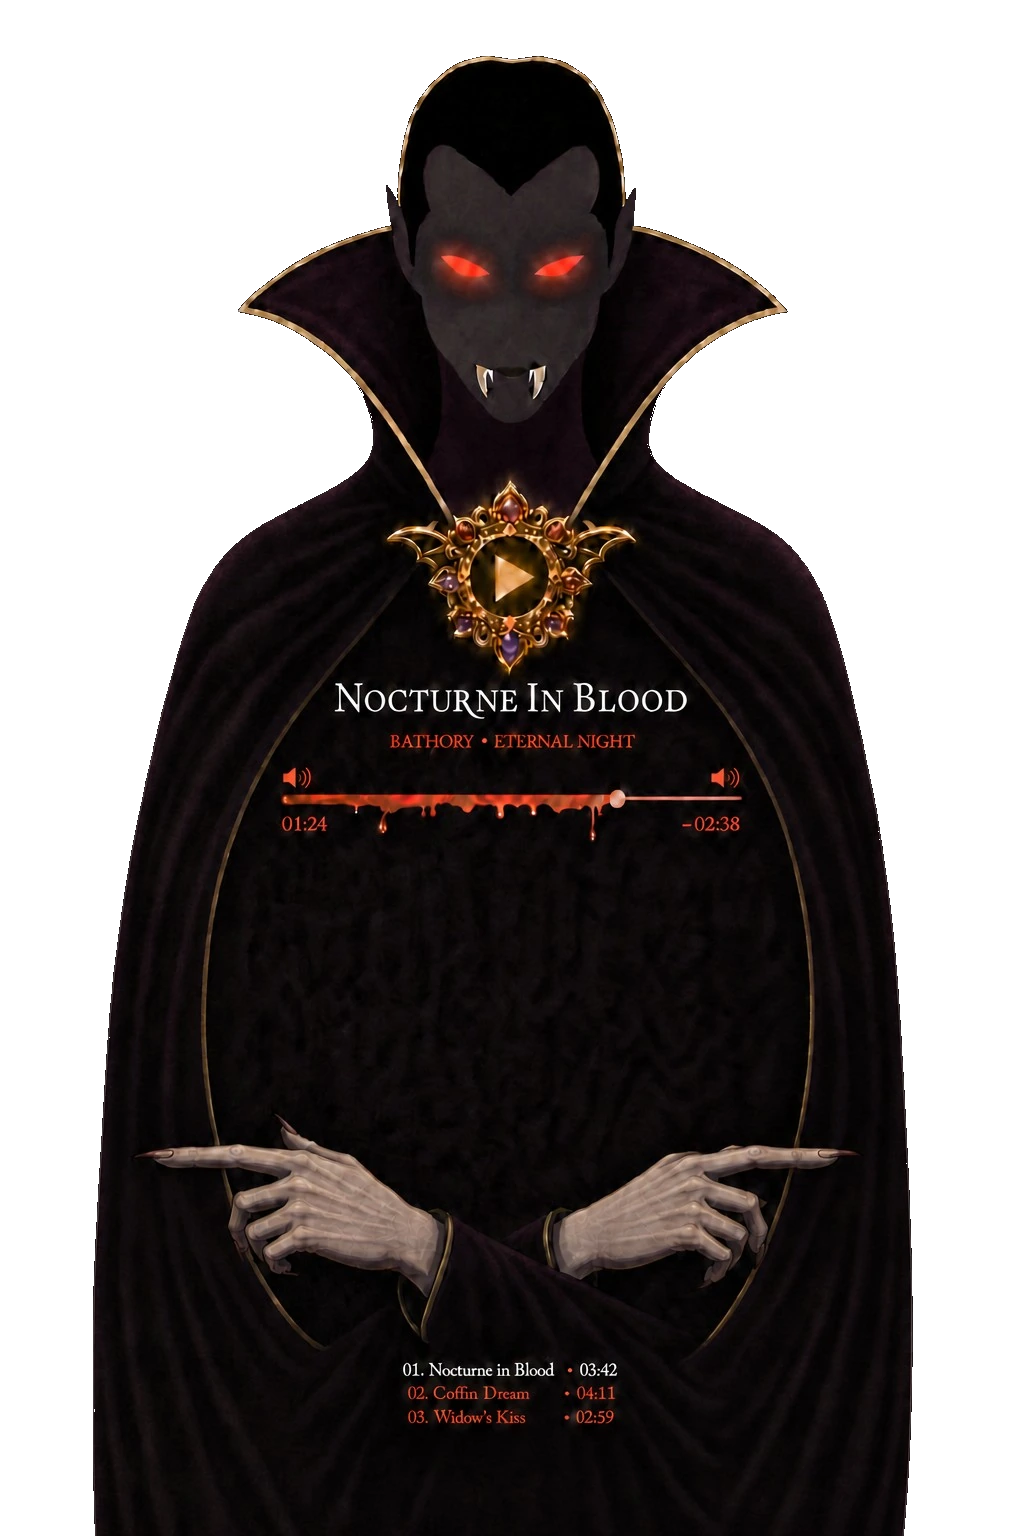
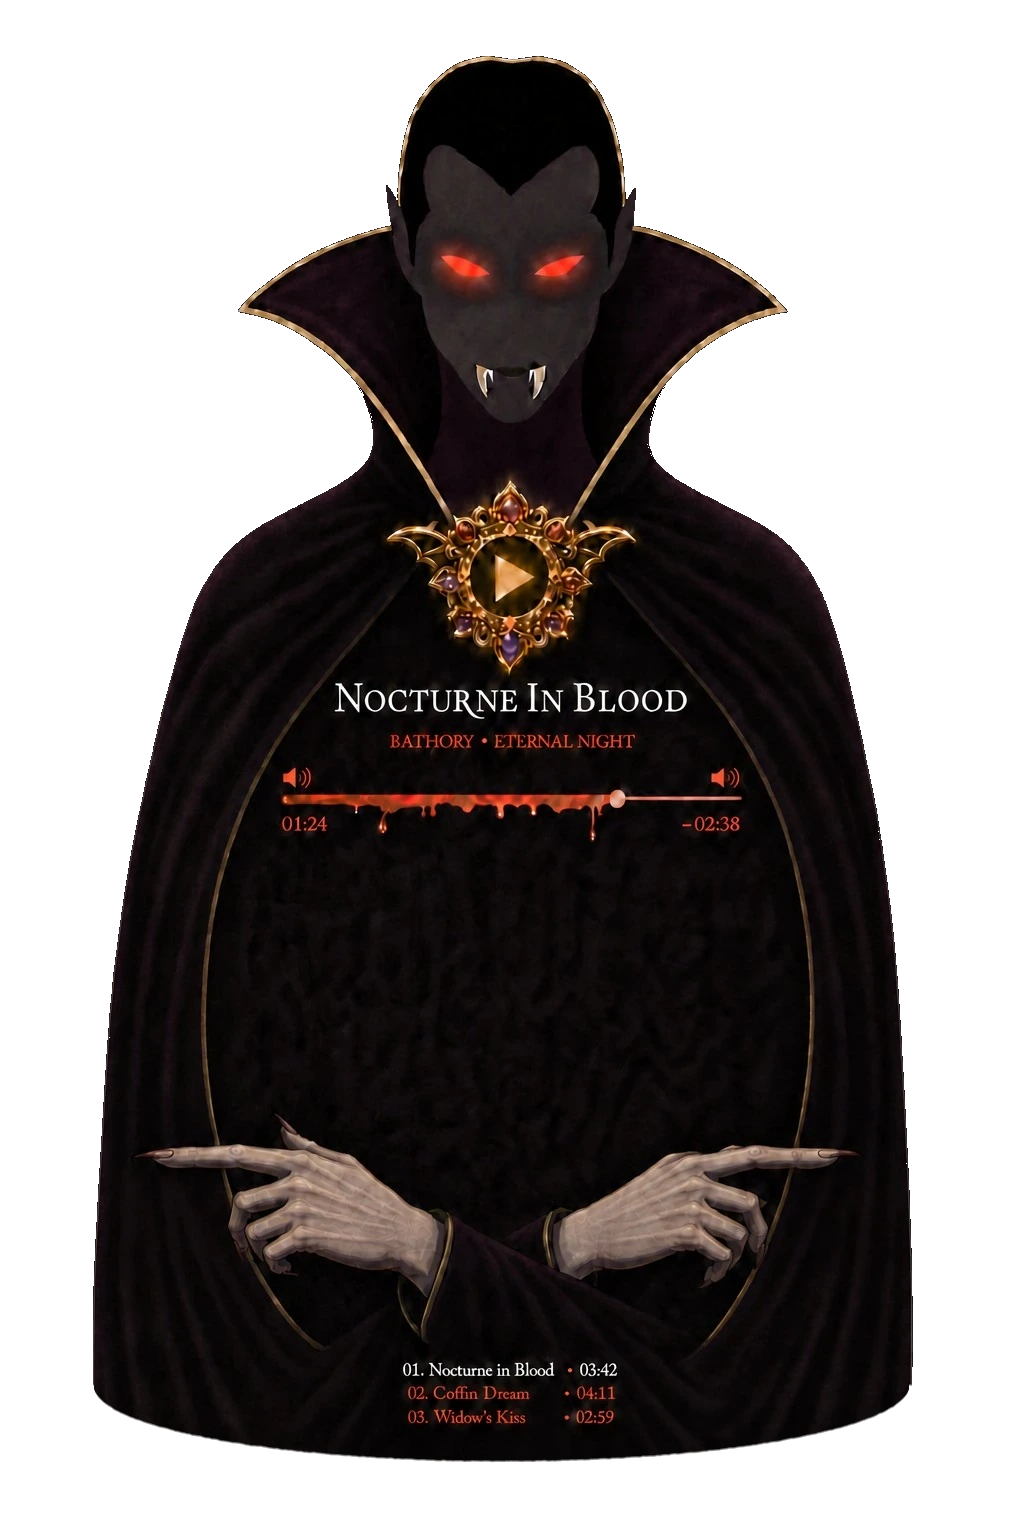
feat(dracula): implement painted blood line with animated drops
- Replace irregular drip curtain with six painted drop anchors positioned on blood strip
- Add dracula-blood-line.png asset cut from plate's painted line (dim base + bright progress overlay)
- Update blood element styling with clipped progress animation and drop animations (thread stretch and bead fall)
- Refactor buildDrips() to buildDrops() with simplified positioning (DROP_X and DROP_Y constants)
- Add .dr-trackline span and reorder seek region layout to position speakers correctly
- Sync blood element --progress property with seek input during playback and seeking
- Update CSS animations: dr-thread-stretch for thread animation and dr-painted-fall for drop fall with staggered timing
- Blood line now matches web build recipe: dim unplayed track with bright clipped progress fill and six animated drops with snapping threads and falling beads

Changed region(s): [[0.0938, 0.9062, 0.9062, 1.0]]

diff --git a/src/renderer/style.css b/src/renderer/style.css
@@ -315,72 +315,111 @@ input[type="range"]::-moz-range-thumb {
   50% { box-shadow: 0 0 4cqw 1.4cqw rgba(239, 154, 58, 0.55), inset 0 0 1.5cqw rgba(255, 179, 79, 0.32); }
 }
 
-/* Blood line = seek, bracketed by the volume speakers painted into the plate */
+/* Blood line = seek: a strip cut from the plate's own painted line (see
+   reference/dracula-web/blood-line.py). It lies dim under the bar; a bright
+   copy clipped to --progress fills as the track plays, and painted drops hang
+   from the lowest points of the crop. */
 .dracula-skin .dr-seek-region {
   left: 27.2%; top: 49.6%;
   width: 45.6%; height: 5.2%;
+  background: #0c080e;
   display: flex;
   flex-direction: column;
   justify-content: center;
-  background: #0c080e;
   z-index: 3;
 }
 .dracula-skin .dr-seek-top {
   position: relative;
-  height: 2cqw;
-  margin-top: 0.1cqw;
+  width: 100%;
+  height: 4cqw;
+  margin: 0;
+}
+.dracula-skin .dr-trackline {
+  position: absolute;
+  left: 4.6cqw; right: 4.6cqw;
+  top: 4%; height: 6%;
+  border-radius: 5px;
+  background: linear-gradient(#df6b5a, #8d2326 50%, #5c191b);
+  box-shadow: 0 0 0.45cqw #e4402e;
+  pointer-events: none;
 }
 .dracula-skin .dr-blood {
   position: absolute;
-  inset: 0;
+  left: 4.6cqw; right: 4.6cqw;
+  top: 0; bottom: 0;
   pointer-events: none;
   z-index: 2;
 }
-.dracula-skin .dr-drip {
-  position: absolute;
-  top: 0.95cqw;
-  left: var(--x);
-  width: var(--w);
-  height: var(--h);
-  border-radius: 0 0 55% 55%;
-  background: linear-gradient(90deg, #8c1824, #d83c3b 60%, #ab2229);
-  transform-origin: top center;
-  animation: dr-drip var(--speed) ease-in-out var(--delay) infinite;
-  filter: drop-shadow(0 0 0.2cqw rgba(181, 34, 41, 0.9));
-}
-.dracula-skin .dr-drip::after {
+.dracula-skin .dr-blood::before,
+.dracula-skin .dr-blood::after {
   content: '';
   position: absolute;
-  bottom: -0.05cqw;
-  left: 50%;
-  width: 1.55em; height: 1.55em;
-  border-radius: 50%;
-  background: #d7403e;
-  transform: translateX(-50%);
-  animation: dr-bead var(--speed) ease-in var(--delay) infinite;
+  inset: 0;
+  background: url('./assets/dracula-blood-line.png') center / 100% 100% no-repeat;
+  pointer-events: none;
 }
-.dracula-skin .dr-drip:nth-child(3n)::after { animation-name: dr-fall; }
-@keyframes dr-drip {
-  0%, 100% { transform: scaleY(0.65); }
-  45%      { transform: scaleY(1.18); }
-  68%      { transform: scaleY(0.9); }
+.dracula-skin .dr-blood::before { filter: brightness(0.48) saturate(0.85); }
+.dracula-skin .dr-blood::after {
+  clip-path: inset(0 calc(100% - var(--progress, 0%)) 0 0);
+  filter: brightness(1.1) saturate(1.2);
 }
-@keyframes dr-bead {
-  0%, 100% { opacity: 0.75; transform: translateX(-50%) scale(0.75); }
-  60%      { opacity: 1;    transform: translateX(-50%) scale(1); }
+/* Each painted drip tip is an anchor: ::before is the thread that stretches
+   down from the bar and snaps, ::after is the bead that swells at its tip and
+   falls. */
+.dracula-skin .dr-blood-drop {
+  position: absolute;
+  width: 0; height: 0;
+  pointer-events: none;
 }
-@keyframes dr-fall {
-  0%, 58% { opacity: 1;   transform: translate(-50%, 0) scale(0.8); }
-  80%     { opacity: 0.8; transform: translate(-50%, 0.8cqw) scale(0.65); }
-  100%    { opacity: 0;   transform: translate(-50%, 1.4cqw) scale(0.35); }
+.dracula-skin .dr-blood-drop::before {
+  content: '';
+  position: absolute;
+  left: 0; top: 0;
+  width: 0.14cqw; height: 1.3cqw;
+  margin-left: -0.07cqw;
+  border-radius: 45% 45% 30% 30% / 8% 8% 22% 22%;
+  background: linear-gradient(#8f0d16, #d0302a 55%, #ff8564 88%, #ffd9b4);
+  filter: drop-shadow(0 0 0.12cqw #c22026cc);
+  transform-origin: 50% 0;
+  animation: dr-thread-stretch var(--duration) cubic-bezier(0.35, 0, 0.55, 1) var(--delay) infinite;
+  will-change: transform, opacity;
+}
+.dracula-skin .dr-blood-drop::after {
+  content: '';
+  position: absolute;
+  left: 0; top: 0;
+  width: var(--dw); height: var(--dh);
+  margin-left: calc(var(--dw) / -2);
+  border-radius: 50% 50% 50% 50% / 58% 58% 42% 42%;
+  background: radial-gradient(ellipse at 34% 26%, #ffe0bd 0%, #ff9268 16%, #d63b30 48%, #8c1016 82%, #3c0607 100%);
+  box-shadow: 0 0 0.2cqw #d33a2f99;
+  animation: dr-painted-fall var(--duration) linear var(--delay) infinite;
+  will-change: transform, opacity;
+}
+@keyframes dr-thread-stretch {
+  0%, 28%   { opacity: 0;    transform: scaleY(0.04); }
+  36%       { opacity: 0.85; transform: scaleY(0.62); }
+  46%       { opacity: 1;    transform: scaleY(1); }
+  51%       { opacity: 0.95; transform: scaleY(0.96); }
+  56%       { opacity: 0.7;  transform: scaleY(0.2); }
+  60%, 100% { opacity: 0;    transform: scaleY(0.04); }
+}
+@keyframes dr-painted-fall {
+  0%, 43%   { opacity: 0;    transform: translateY(0.5cqw) scale(0.35, 0.35); }
+  47%       { opacity: 0.95; transform: translateY(1.2cqw) scale(0.95, 1.05); }
+  52%       { opacity: 0.95; transform: translateY(1.3cqw) scale(0.92, 1.14); }
+  57%       { opacity: 0.9;  transform: translateY(1.55cqw) scale(0.9, 1.16); }
+  66%       { opacity: 0.8;  transform: translateY(2.3cqw) scale(0.86, 1.12); }
+  78%       { opacity: 0.45; transform: translateY(3.2cqw) scale(0.78, 1); }
+  88%, 100% { opacity: 0;    transform: translateY(3.65cqw) scale(0.58, 0.8); }
 }
 
 .dracula-skin .dr-seek {
   position: absolute;
   left: 4.6cqw; right: 4.6cqw;
-  top: 0;
+  top: -25%;
   width: auto;
-  height: 2cqw;
+  height: 75%;
   margin: 0;
   background: transparent;
   appearance: none;
@@ -389,39 +428,29 @@ input[type="range"]::-moz-range-thumb {
   z-index: 3;
 }
 .dracula-skin .dr-seek::-webkit-slider-runnable-track {
-  height: 0.38cqw;
-  border-radius: 5px;
-  background: linear-gradient(
-    to right,
-    #e13b40 0 var(--progress, 0%),
-    #88434b var(--progress, 0%) 100%
-  );
+  height: 0.35cqw;
+  background: transparent;
 }
 .dracula-skin .dr-seek::-webkit-slider-thumb {
   -webkit-appearance: none;
   width: 1.65cqw; height: 1.65cqw;
-  margin-top: -0.63cqw;
+  margin-top: -0.65cqw;
   border-radius: 50%;
-  background: #ee817e;
-  box-shadow: 0 0 0.8cqw #ff4752;
+  background: radial-gradient(circle at 35% 30%, #ffd8c6, #ed8a70 47%, #a9403a 75%, #65221f);
+  box-shadow: 0 0 0.6cqw #ff684b99;
   cursor: pointer;
 }
-.dracula-skin .dr-seek::-moz-range-track {
-  height: 0.38cqw;
-  border-radius: 5px;
-  background: #88434b;
-}
+.dracula-skin .dr-seek::-moz-range-track,
 .dracula-skin .dr-seek::-moz-range-progress {
-  height: 0.38cqw;
-  border-radius: 5px;
-  background: #e13b40;
+  height: 0.35cqw;
+  background: transparent;
 }
 .dracula-skin .dr-seek::-moz-range-thumb {
   width: 1.65cqw; height: 1.65cqw;
   border: 0;
   border-radius: 50%;
-  background: #ee817e;
-  box-shadow: 0 0 0.8cqw #ff4752;
+  background: radial-gradient(circle at 35% 30%, #ffd8c6, #ed8a70 47%, #a9403a 75%, #65221f);
+  box-shadow: 0 0 0.6cqw #ff684b99;
 }
 .dracula-skin .dr-seek:focus-visible { outline: 2px solid #f4d58b; }
 
@@ -460,16 +489,16 @@ input[type="range"]::-moz-range-thumb {
 .dracula-skin .dr-vol:focus-visible { outline: 1px solid rgba(248, 220, 142, 0.85); }
 
 .dracula-skin .dr-times {
+  position: relative;
+  width: 100%;
+  margin: 0.35cqw 0 0;
+  padding: 0 0.4cqw;
   display: flex;
   justify-content: space-between;
-  padding: 0 0.4cqw;
-  margin-top: 0.15cqw;
-  font-family: Georgia, 'Times New Roman', serif;
-  font-size: clamp(8px, 1.8cqw, 18px);
+  color: #ed573e;
+  font: clamp(8px, 1.8cqw, 18px)/1 Georgia, 'Times New Roman', serif;
   font-variant-numeric: tabular-nums;
-  letter-spacing: 0.04em;
-  color: #eb7477;
-  text-shadow: 0 1px 3px #150817;
+  text-shadow: 0 0 0.5cqw #7d160c;
   z-index: 4;
 }
 

diff --git a/src/renderer/skins/DraculaSkin.ts b/src/renderer/skins/DraculaSkin.ts
@@ -32,8 +32,9 @@ import type { Player } from '../player/Player'
 
 /** Spectrum resolution (same as the web version) */
 const BAR_COUNT = 48
-/** Irregular drip curtain positions along the blood line, % of the seek width */
-const DRIP_X = [4, 8, 12, 17, 21, 25, 29, 34, 39, 43, 48, 52, 57, 62, 67, 72, 77, 82, 87, 91, 96]
+/** Painted drop anchors on the blood strip, % of the seek width / height */
+const DROP_X = [22.0, 30.2, 43.3, 57.0, 67.4, 77.0]
+const DROP_Y = [34, 80, 46, 40, 50, 42]
 
 /** The 2:3 stage, and the square bat the window shrinks to. */
 const STAGE_SIZE = { width: 480, height: 720, minWidth: 380, minHeight: 560 }
@@ -46,6 +47,7 @@ interface DraculaEls {
   eyeRight: HTMLElement
   canvas: HTMLCanvasElement
   seek: HTMLInputElement
+  blood: HTMLElement
   elapsed: HTMLElement
   remaining: HTMLElement
   medallion: HTMLButtonElement
@@ -154,8 +156,9 @@ export class DraculaSkin implements Skin {
           <!-- Blood line = seek, bracketed by the painted speakers -->
           <div class="dr-seek-region" role="group" aria-label="Seek">
             <div class="dr-seek-top">
-              <button class="dr-vol dr-vol-down" aria-label="Volume down" title="Volume down"></button>
+              <span class="dr-trackline" aria-hidden="true"></span>
               <div class="dr-blood" aria-hidden="true"></div>
+              <button class="dr-vol dr-vol-down" aria-label="Volume down" title="Volume down"></button>
               <input class="dr-seek" type="range" min="0" max="1000" value="0"
                      aria-label="Seek through track" step="1" />
               <button class="dr-vol dr-vol-up" aria-label="Volume up" title="Volume up"></button>
@@ -214,6 +217,7 @@ export class DraculaSkin implements Skin {
       eyeRight: c.querySelector('.dr-eye-right')!,
       canvas: c.querySelector('.dr-viz')!,
       seek: c.querySelector('.dr-seek')!,
+      blood: c.querySelector('.dr-blood')!,
       elapsed: c.querySelector('.dr-elapsed')!,
       remaining: c.querySelector('.dr-remaining')!,
       medallion: c.querySelector('.dr-medallion')!,
@@ -225,7 +229,7 @@ export class DraculaSkin implements Skin {
     }
     this.els = els
 
-    this.buildDrips()
+    this.buildDrops()
 
     // Medallion + mini bat play = play / pause
     const toggle = (): void => {
@@ -242,6 +246,7 @@ export class DraculaSkin implements Skin {
       const dur = p.audio.duration
       const cur = dur * (Number(els.seek.value) / 1000)
       els.seek.style.setProperty('--progress', `${Number(els.seek.value) / 10}%`)
+      els.blood.style.setProperty('--progress', `${Number(els.seek.value) / 10}%`)
       els.elapsed.textContent = fmt(cur)
       els.remaining.textContent = `-${fmt(Math.max(0, dur - cur))}`
     })
@@ -355,20 +360,20 @@ export class DraculaSkin implements Skin {
 
   // ── Playlist ─────────────────────────────────────────────────────────────────
 
-  private buildDrips(): void {
+  private buildDrops(): void {
     const host = this.container?.querySelector('.dr-blood')
     if (!host) return
     host.replaceChildren()
-    DRIP_X.forEach((x, i) => {
-      const drip = document.createElement('span')
-      drip.className = 'dr-drip'
-      drip.style.setProperty('--x', `${x}%`)
-      drip.style.setProperty('--w', `${0.16 + (i % 3) * 0.08}cqw`)
-      drip.style.setProperty('--h', `${0.55 + ((i * 7) % 10) * 0.13}cqw`)
-      drip.style.setProperty('--speed', `${1.7 + (i % 6) * 0.41}s`)
-      drip.style.setProperty('--delay', `${-(i * 0.31)}s`)
-      drip.style.fontSize = `${0.12 + (i % 3) * 0.04}cqw`
-      host.appendChild(drip)
+    DROP_X.forEach((x, i) => {
+      const drop = document.createElement('span')
+      drop.className = 'dr-blood-drop'
+      drop.style.left = `${x}%`
+      drop.style.top = `${DROP_Y[i]}%`
+      drop.style.setProperty('--dw', `${0.38 + (i % 3) * 0.08}cqw`)
+      drop.style.setProperty('--dh', `${0.62 + (i % 3) * 0.12}cqw`)
+      drop.style.setProperty('--duration', `${3 + (i % 4) * 0.45}s`)
+      drop.style.setProperty('--delay', `${-i * 0.71}s`)
+      host.appendChild(drop)
     })
   }
 
@@ -595,6 +600,7 @@ export class DraculaSkin implements Skin {
       if (els.seek.value !== value) els.seek.value = value
     }
     els.seek.style.setProperty('--progress', `${Number(els.seek.value) / 10}%`)
+    els.blood.style.setProperty('--progress', `${Number(els.seek.value) / 10}%`)
 
     const elapsedText = fmt(cur)
     if (els.elapsed.textContent !== elapsedText) els.elapsed.textContent = elapsedText

diff --git a/docs/AGENTS.md b/docs/AGENTS.md
@@ -258,6 +258,14 @@ restoring built the stage's 163-rect region. GDI `CopyFromScreen`/`BitBlt` canno
 per-pixel-alpha layered windows on Win11, so verify the region with `GetWindowRgn`/
 `GetRegionData`, not a desktop grab.
 
+The seekbar is the plate's own painted blood line (2026-11-22): the web build cuts a 323x50
+crop at (282,794) into a 460x50 strip, keeps only red pixels as alpha, then paints it twice —
+dim for the unplayed track and a bright copy clipped to `--progress` — with six painted drops
+at the lowest drips. The Electron skin uses the same recipe
+(`reference/dracula-web/blood-line.py` -> `src/renderer/assets/dracula-blood-line.png`), inset
+4.6cqw between the painted speakers; the drop anchors are taken from the generator and the
+times sit just below the strip so they stay legible over its drips. Each of the six anchors also drips: a thread stretches from the painted tip and snaps (`dr-thread-stretch` on `.dr-blood-drop::before`) while the bead swells and falls (`dr-painted-fall` on `::after`), staggered per drop by duration and negative delay.
+
 ## Recent Improvements (2026-11-08)
 - **Blood effects (CORRECTED 2026-11-20):** an earlier entry here claimed blood-drip elements. Only the 21-drip curtain (`DRIP_X` and `buildDrips()` in `src/renderer/skins/DraculaSkin.ts`) exists in committed code; `git log -S` finds no splatter or trail code in any commit.
 - **Complete Kiro infrastructure:** Full `.kiro/` folder created with specs (3 files incl. submission-readiness), steering files (7 files including auto-load guides), hooks (3), workflows (1 template), and comprehensive documentation explaining all Kiro concepts.
